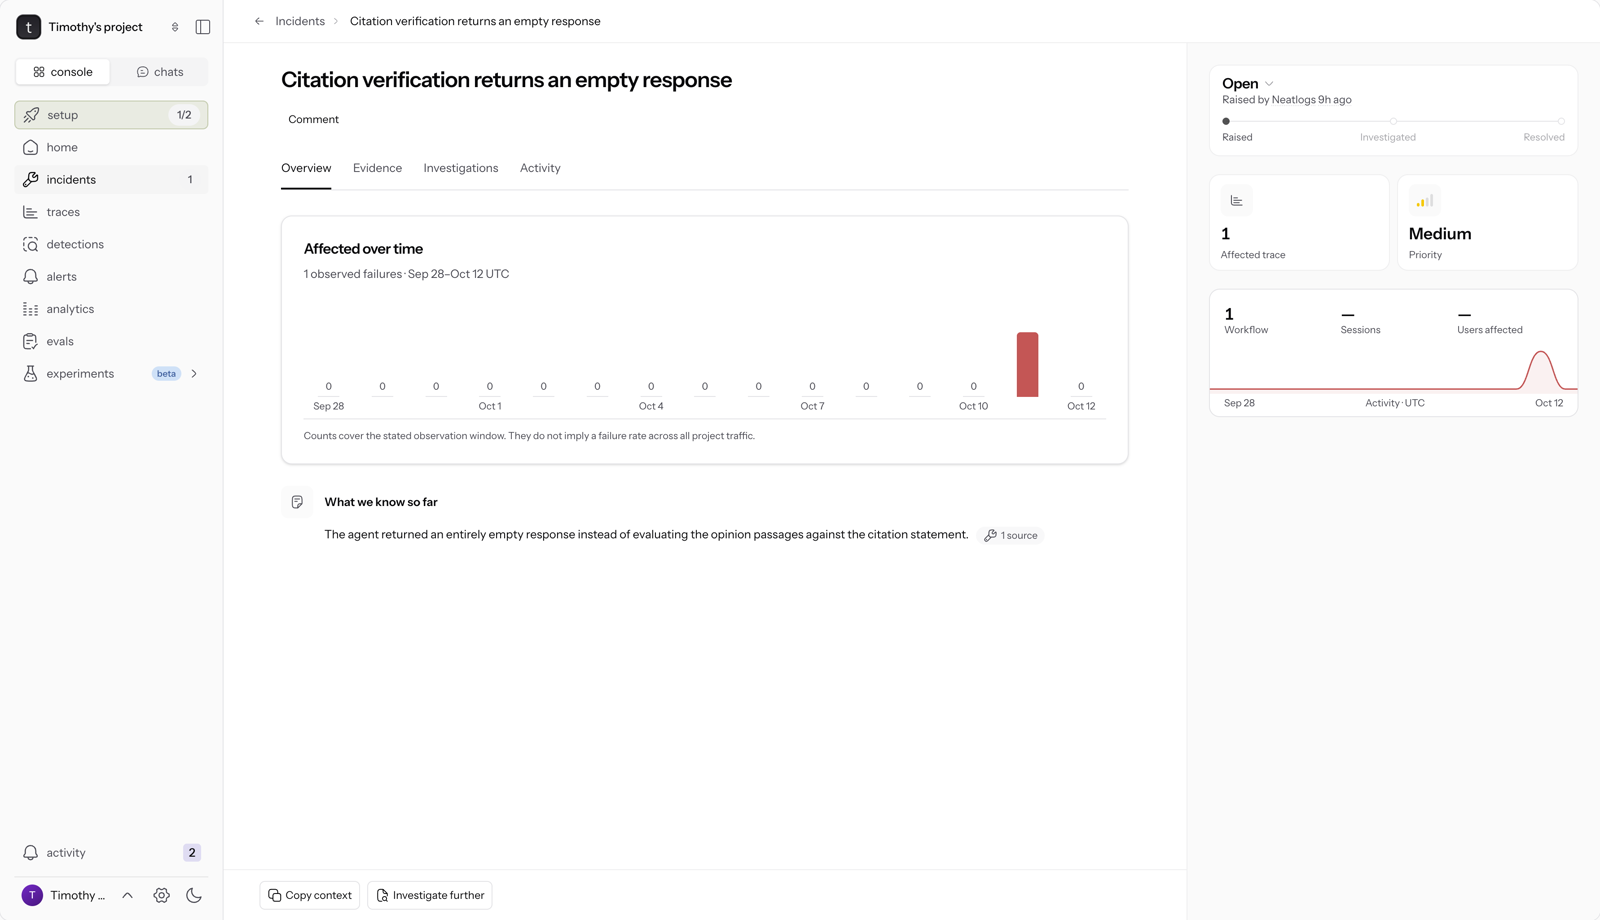
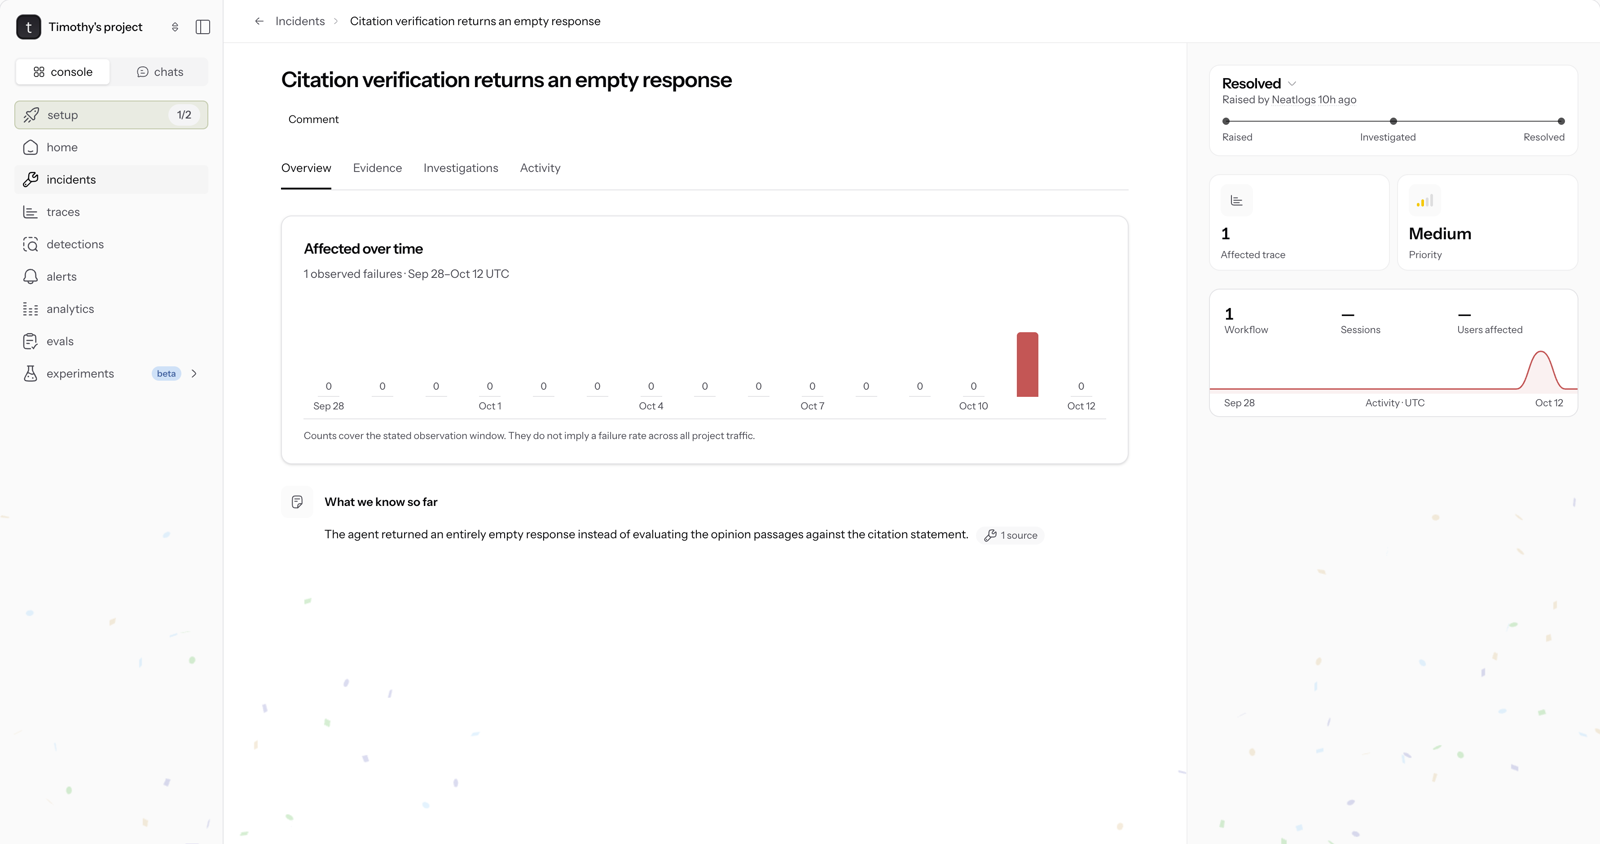
docs: show the neatlogs incident as resolved
The incident neatlogs raised is now marked Resolved there, with a comment linking commit 6651154. The README screenshot and text now match.

Entire-Checkpoint: 01M4RTVBXRH3JJEZRAX1JRGRY9

diff --git a/README.md b/README.md
@@ -161,9 +161,9 @@ Every run attempt is one `gainsay.check_run` trace with a `gainsay.check_citatio
 
 ![The neatlogs trace list: one row per run and Claude call](docs/proof/neatlogs-traces.png)
 
-neatlogs raised an incident on its own, "Citation verification returns an empty response": one proposition check whose Claude call came back with no evaluation of the passages. The judge assumed every answer held the verdict JSON, so an empty or cut-off answer would have raised inside the run. Commit [`6651154`](https://github.com/winsznx/gainsay/commit/6651154) records one as Unverifiable with the reason, keeps it out of the cache, and asks again on the next run.
+neatlogs raised an incident on its own, "Citation verification returns an empty response": one proposition check whose Claude call came back with no evaluation of the passages. The judge assumed every answer held the verdict JSON, so an empty or cut-off answer would have raised inside the run. Commit [`6651154`](https://github.com/winsznx/gainsay/commit/6651154) records one as Unverifiable with the reason, keeps it out of the cache, and asks again on the next run. The incident is marked Resolved in neatlogs, with a comment linking the commit.
 
-![The incident neatlogs raised](docs/proof/neatlogs-incident.png)
+![The incident neatlogs raised, now resolved](docs/proof/neatlogs-incident.png)
 
 ![The fix, commit 6651154](docs/proof/neatlogs-fix.png)
 
